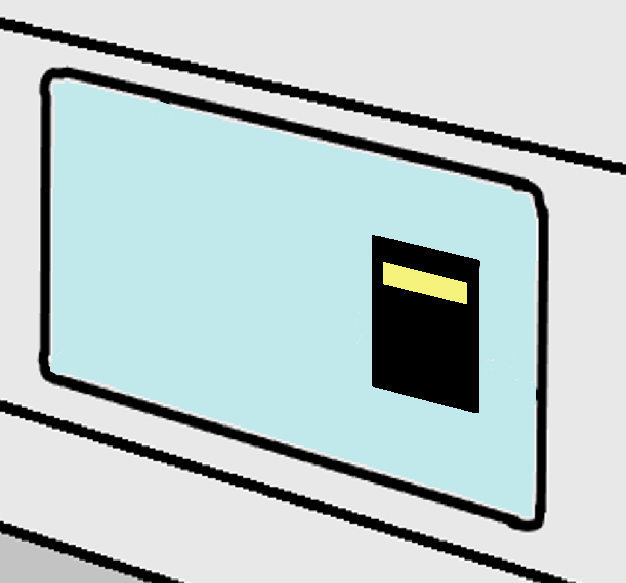
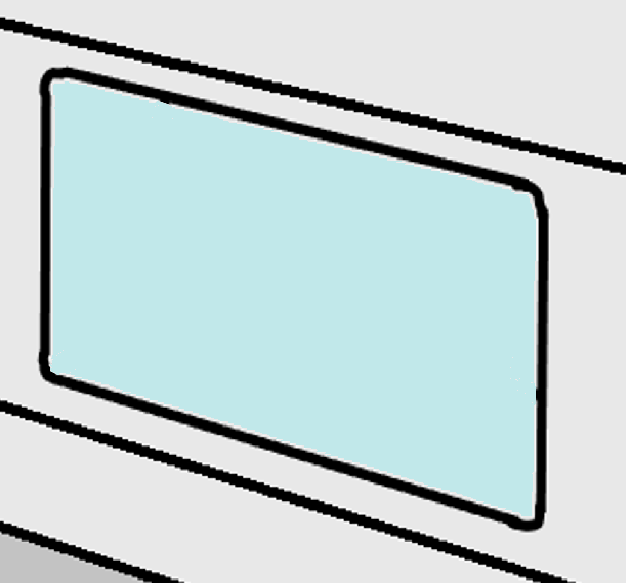
fix: Made keypad not translucent. Made sure they fade in and out together

Changed region(s): [[0.5767, 0.4014, 0.7891, 0.7101]]

diff --git a/src/main/java/nz/ac/auckland/se206/controllers/RoomOneController.java b/src/main/java/nz/ac/auckland/se206/controllers/RoomOneController.java
@@ -67,7 +67,7 @@ public class RoomOneController {
   @FXML private Label oxygenWarningLabel;
   @FXML private Rectangle exitOxygenWarningRectangle;
   @FXML private ImageView wireCompartmentImage;
-
+  @FXML private ImageView keypadWireCompartment;
   @FXML private AnchorPane chatPanel;
 
   private Boolean isPanelOnScreen = true;
@@ -359,9 +359,14 @@ public class RoomOneController {
       App.getScene().setRoot(spacesuitPuzzlesRoom);
       // If spacesuit hasn't been revealed
     } else {
+      // Disable and hide images
       wireCompartmentPolygon.setVisible(false);
       fadeOutNode(wireCompartmentImage, 0.5);
       wireCompartmentImage.setDisable(true);
+
+      keypadWireCompartment.setVisible(false);
+      fadeOutNode(keypadWireCompartment, 0.5);
+      keypadWireCompartment.setDisable(true);
     }
   }
 
